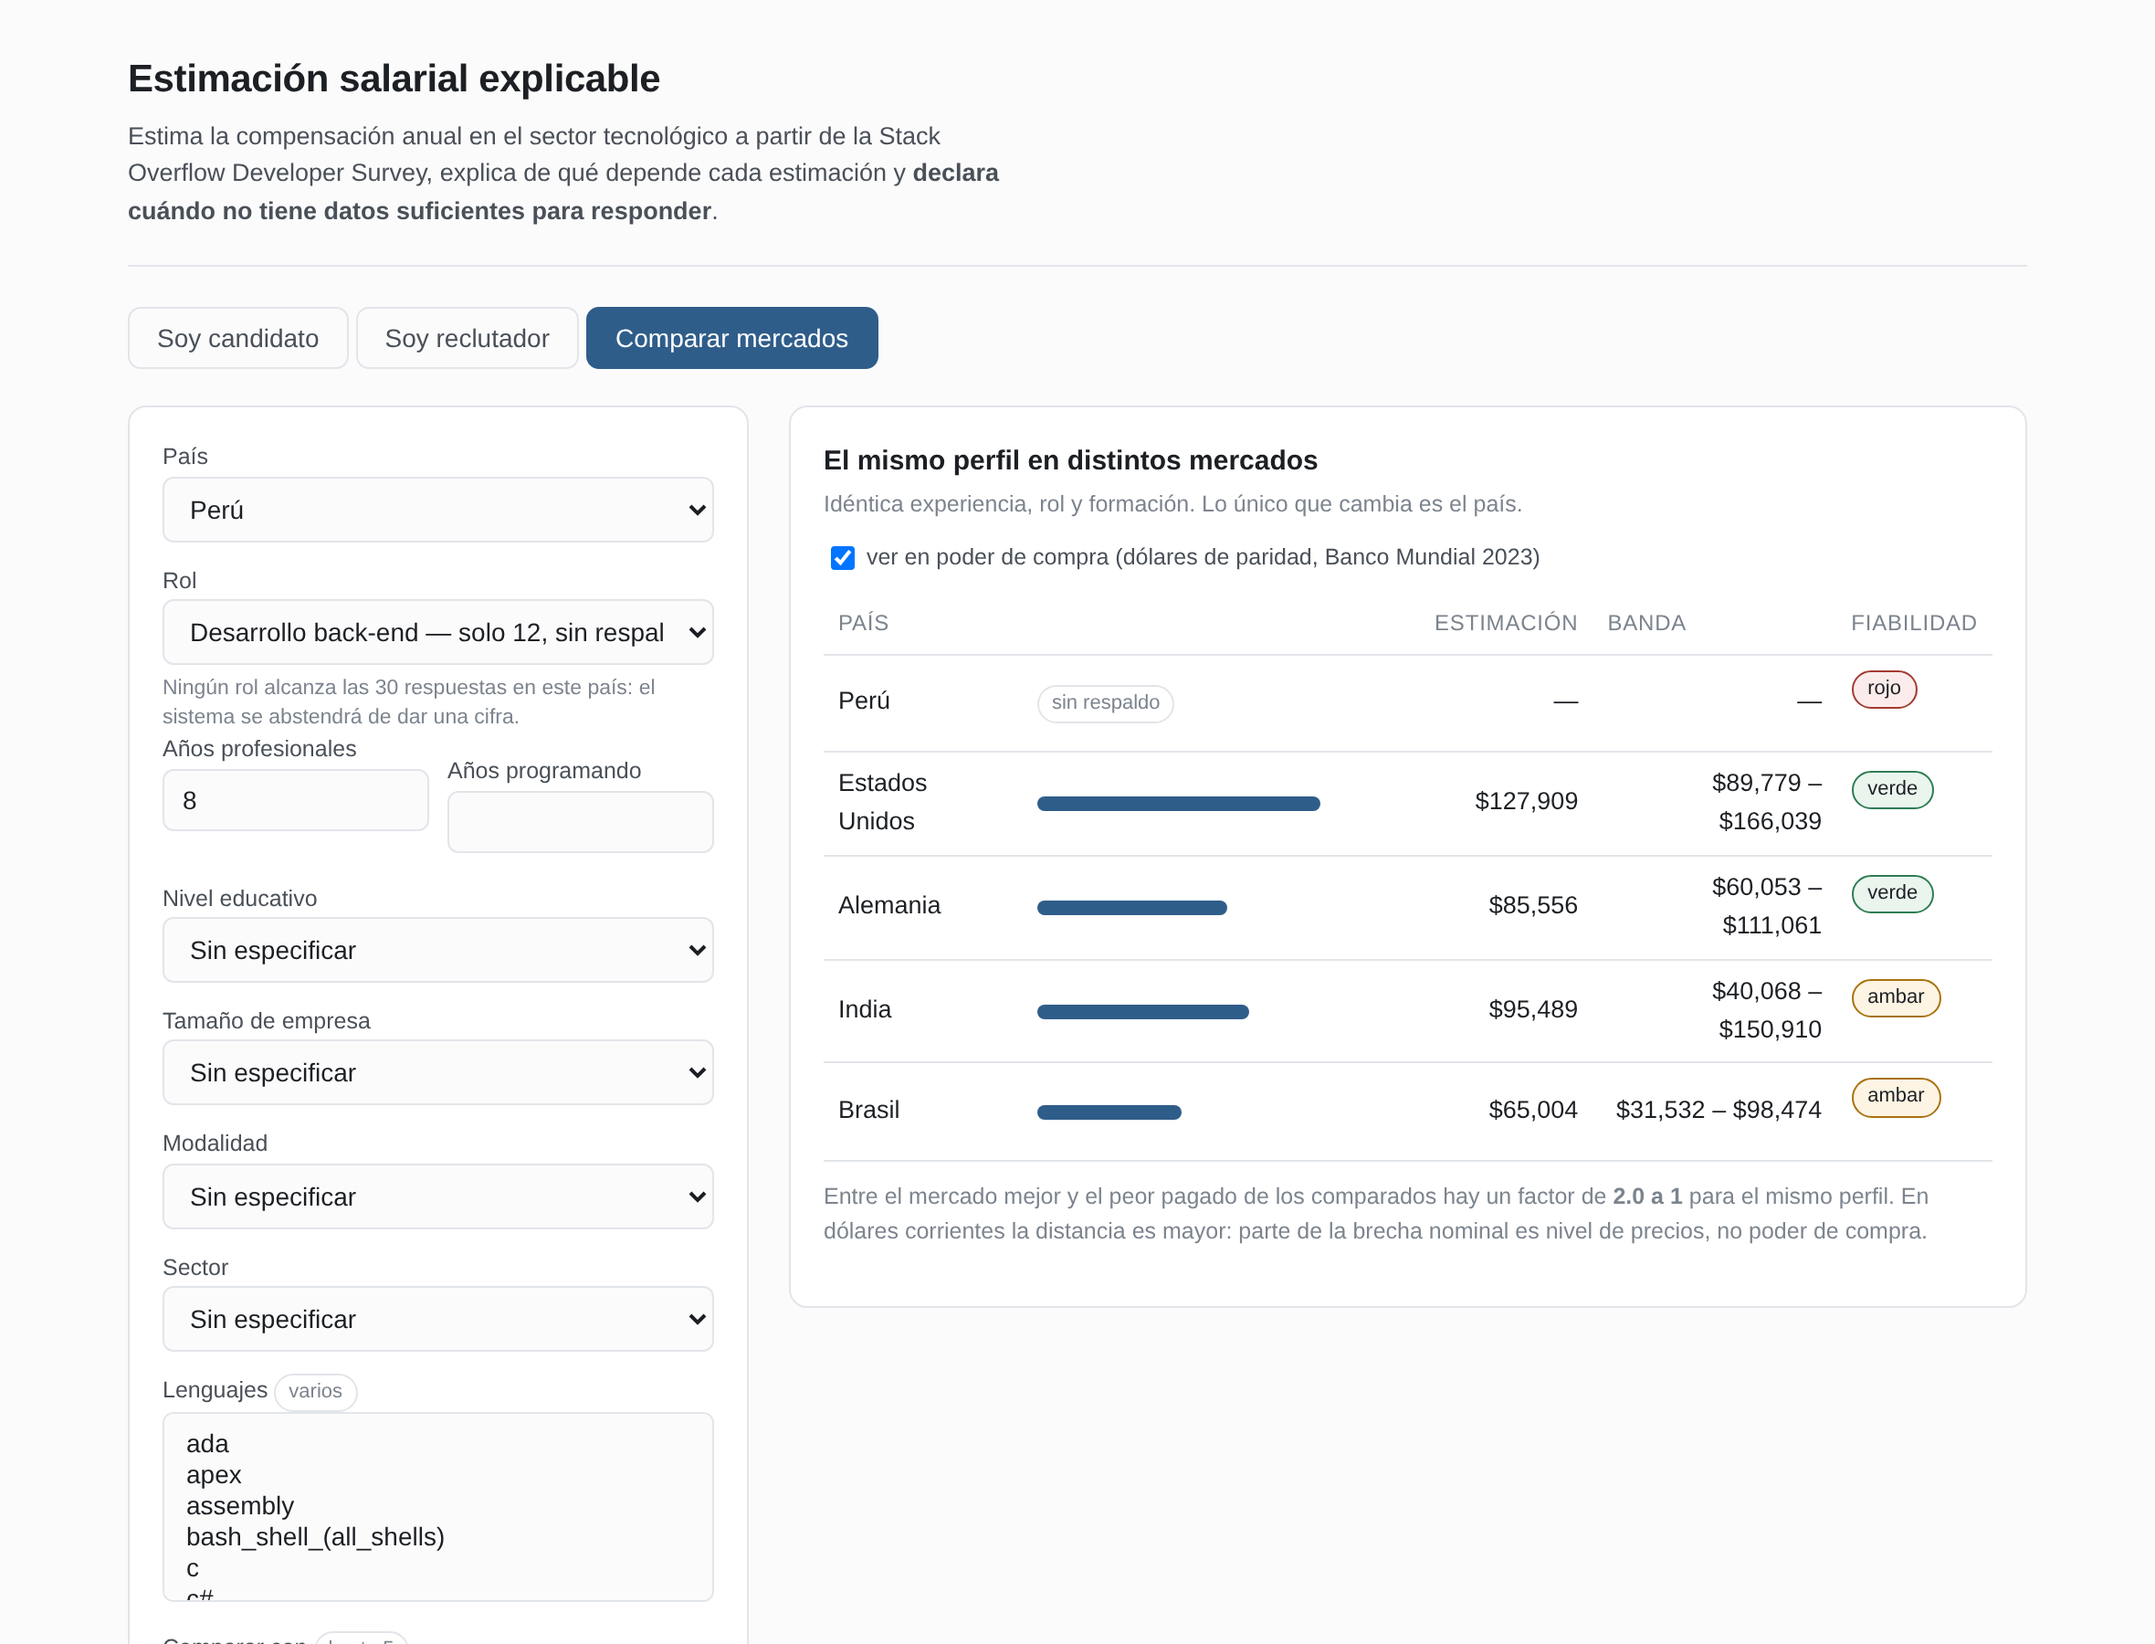
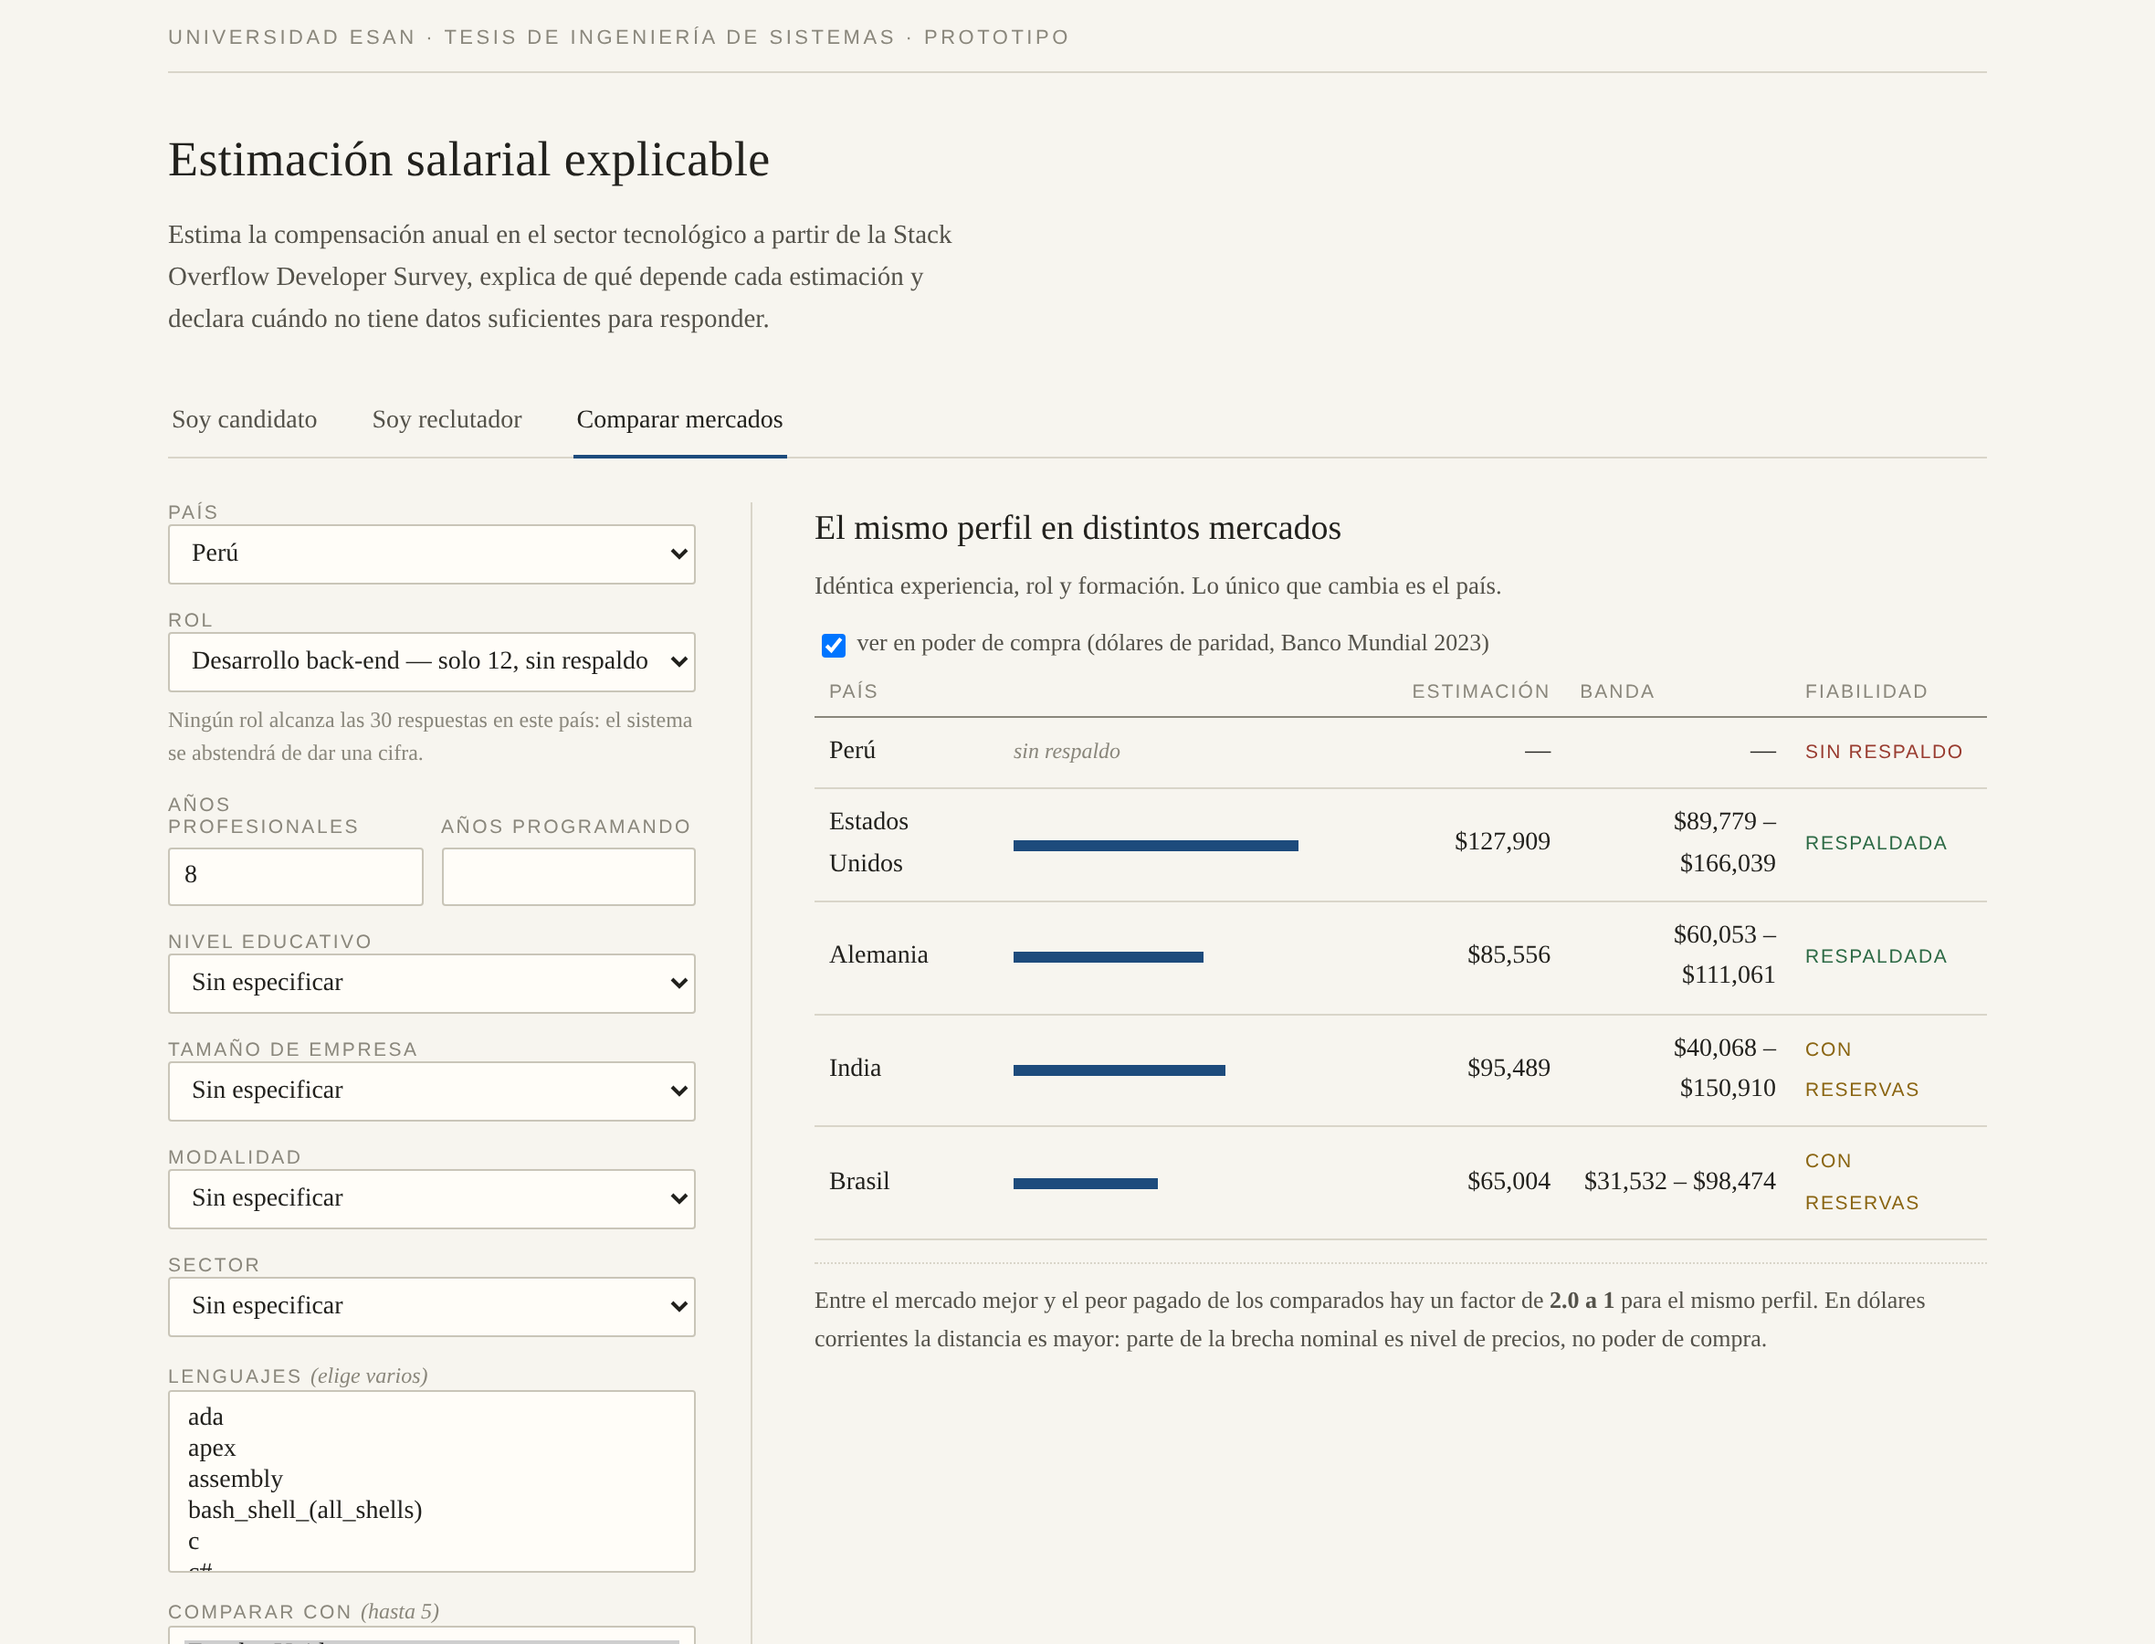
style: el prototipo adopta la voz tipográfica del documento
El estilo anterior (tarjetas redondeadas, pastillas, tipografía de
sistema, tema oscuro automático) era el de una plantilla genérica. La
página se compone ahora como un impreso académico: serifa para títulos y
cifras, línea institucional en la cabecera, pestañas subrayadas,
filetes finos, rótulos en versalitas, un solo tema claro. Los estados
de fiabilidad se escriben con palabras (respaldada, con reservas, sin
respaldo) en lugar del nombre del color, y las notas de país usan el
nombre en español también dentro del texto.

Sin cambios de lógica: las 24 pruebas pasan y la construcción de la
imagen las ejecuta.

diff --git a/servicio/static/index.html b/servicio/static/index.html
@@ -6,81 +6,102 @@
 <title>Estimación salarial explicable</title>
 <link rel="icon" href="data:,">
 <style>
+/* La página comparte la voz tipográfica del documento: serifa para títulos y
+   cifras, composición sobria, filetes finos. Un solo tema, como un impreso. */
 :root{
-  --tinta:#1c1f23; --tinta2:#4a5058; --tinta3:#7c848e;
-  --linea:#e2e5e9; --fondo:#fbfbfc; --panel:#ffffff;
-  --azul:#2f5d8a; --verde:#2e7d52; --ambar:#a8720d; --rojo:#a33a32;
-  --verde-f:#eaf5ee; --ambar-f:#fdf4e3; --rojo-f:#fbeceb;
-}
-@media (prefers-color-scheme: dark){
-  :root{ --tinta:#e8eaed; --tinta2:#b3b9c1; --tinta3:#858c95;
-    --linea:#2c3137; --fondo:#15181b; --panel:#1c2024;
-    --azul:#7aa9d6; --verde:#6cc08d; --ambar:#dfae5a; --rojo:#e08a82;
-    --verde-f:#1b2b22; --ambar-f:#2b2418; --rojo-f:#2c1d1c; }
+  --tinta:#22211d; --tinta2:#54524a; --tinta3:#8a877c;
+  --filete:#d9d5c9; --fondo:#f7f5ef; --papel:#fffdf8;
+  --azul:#1d4b7c; --verde:#2d6a45; --ambar:#8a6512; --rojo:#993c30;
+  --verde-f:#f0f5ef; --ambar-f:#f9f4e6; --rojo-f:#f8eeec;
 }
 *{box-sizing:border-box}
 body{margin:0;background:var(--fondo);color:var(--tinta);
-  font:15px/1.55 -apple-system,BlinkMacSystemFont,"Segoe UI",Roboto,Helvetica,Arial,sans-serif}
-.envoltura{max-width:1080px;margin:0 auto;padding:28px 20px 64px}
-header{border-bottom:1px solid var(--linea);padding-bottom:18px;margin-bottom:22px}
-h1{font-size:21px;margin:0 0 4px;letter-spacing:-.2px}
-header p{margin:0;color:var(--tinta2);font-size:13.5px;max-width:66ch}
-.pestanas{display:flex;gap:4px;margin:22px 0 20px;flex-wrap:wrap}
-.pestanas button{background:none;border:1px solid var(--linea);color:var(--tinta2);
-  padding:8px 15px;border-radius:7px;cursor:pointer;font-size:14px;font-family:inherit}
-.pestanas button[aria-selected=true]{background:var(--azul);border-color:var(--azul);color:#fff}
-.rejilla{display:grid;grid-template-columns:minmax(280px,340px) 1fr;gap:22px;align-items:start}
+  font:15px/1.6 Georgia,"Times New Roman",serif}
+.envoltura{max-width:1040px;margin:0 auto;padding:0 22px 60px}
+.institucion{font:11px/1.4 Verdana,Arial,sans-serif;letter-spacing:.16em;
+  text-transform:uppercase;color:var(--tinta3);border-bottom:1px solid var(--filete);
+  padding:14px 0 10px;margin-bottom:26px}
+header h1{font-size:27px;font-weight:normal;margin:0 0 8px;letter-spacing:.2px}
+header p{margin:0 0 4px;color:var(--tinta2);font-size:14.5px;max-width:62ch}
+.pestanas{display:flex;gap:26px;margin:30px 0 24px;border-bottom:1px solid var(--filete)}
+.pestanas button{background:none;border:0;color:var(--tinta2);cursor:pointer;
+  font:14px Georgia,serif;padding:6px 2px 10px;border-bottom:2px solid transparent;
+  margin-bottom:-1px}
+.pestanas button[aria-selected=true]{color:var(--tinta);border-bottom-color:var(--azul)}
+.rejilla{display:grid;grid-template-columns:minmax(270px,320px) 1fr;gap:34px;align-items:start}
 @media(max-width:820px){.rejilla{grid-template-columns:1fr}}
-.panel{background:var(--panel);border:1px solid var(--linea);border-radius:10px;padding:18px}
-label{display:block;font-size:12.5px;color:var(--tinta2);margin:12px 0 4px;font-weight:500}
+.panel{background:none;border:0;padding:0}
+form.panel{border-right:1px solid var(--filete);padding-right:30px}
+@media(max-width:820px){form.panel{border-right:0;padding-right:0;
+  border-bottom:1px solid var(--filete);padding-bottom:22px}}
+label{display:block;font:10.5px Verdana,Arial,sans-serif;letter-spacing:.12em;
+  text-transform:uppercase;color:var(--tinta3);margin:14px 0 5px}
 label:first-of-type{margin-top:0}
-select,input{width:100%;padding:8px 10px;border:1px solid var(--linea);border-radius:6px;
-  background:var(--fondo);color:var(--tinta);font-size:14px;font-family:inherit}
-select[multiple]{height:104px}
-.dos{display:grid;grid-template-columns:1fr 1fr;gap:10px}
-button.principal{width:100%;margin-top:18px;padding:10px;background:var(--azul);color:#fff;
-  border:0;border-radius:7px;font-size:14.5px;font-weight:600;cursor:pointer;font-family:inherit}
+select,input{width:100%;padding:7px 8px;border:1px solid #c9c5b8;border-radius:2px;
+  background:var(--papel);color:var(--tinta);font:14px Georgia,serif}
+select[multiple]{height:100px}
+select:focus,input:focus{outline:none;border-color:var(--azul)}
+.dos{display:grid;grid-template-columns:1fr 1fr;gap:10px;align-items:end}
+.dos label{display:flex;flex-direction:column;justify-content:flex-end;gap:5px;margin:14px 0 0}
+button.principal{width:100%;margin-top:20px;padding:9px;background:var(--azul);
+  color:#fdfcf8;border:1px solid var(--azul);border-radius:2px;
+  font:14.5px Georgia,serif;cursor:pointer}
+button.principal:hover{background:#163c63}
 button.principal:disabled{opacity:.5;cursor:progress}
-.semaforo{border-radius:9px;padding:14px 16px;margin-bottom:16px;border:1px solid}
+.semaforo{border-left:3px solid;border-radius:0;padding:10px 16px;margin-bottom:20px}
 .semaforo.verde{background:var(--verde-f);border-color:var(--verde)}
 .semaforo.ambar{background:var(--ambar-f);border-color:var(--ambar)}
 .semaforo.rojo{background:var(--rojo-f);border-color:var(--rojo)}
-.semaforo h3{margin:0 0 6px;font-size:14px}
+.semaforo h3{margin:0 0 4px;font:11px Verdana,Arial,sans-serif;letter-spacing:.14em;
+  text-transform:uppercase}
 .semaforo.verde h3{color:var(--verde)} .semaforo.ambar h3{color:var(--ambar)}
 .semaforo.rojo h3{color:var(--rojo)}
-.semaforo ul{margin:8px 0 0;padding-left:18px;font-size:13px;color:var(--tinta2)}
-.semaforo li{margin:4px 0}
-.cifra{font-size:34px;font-weight:650;letter-spacing:-.8px;margin:2px 0}
+.semaforo ul{margin:8px 0 2px;padding-left:17px;font-size:13.5px;color:var(--tinta2)}
+.semaforo li{margin:5px 0}
+.cifra{font-size:36px;margin:4px 0 2px;letter-spacing:.3px;
+  font-variant-numeric:tabular-nums}
 .rango{color:var(--tinta2);font-size:14px}
-.nota{color:var(--tinta3);font-size:12.5px;margin-top:10px}
-table{width:100%;border-collapse:collapse;margin-top:8px;font-size:13.5px}
-th,td{text-align:left;padding:7px 8px;border-bottom:1px solid var(--linea)}
-th{color:var(--tinta3);font-weight:500;font-size:12px;text-transform:uppercase;letter-spacing:.4px}
+.nota{color:var(--tinta2);font-size:13px;margin-top:12px;padding-top:10px;
+  border-top:1px dotted var(--filete)}
+table{width:100%;border-collapse:collapse;margin-top:10px;font-size:14px}
+th{font:10.5px Verdana,Arial,sans-serif;letter-spacing:.1em;text-transform:uppercase;
+  color:var(--tinta3);font-weight:normal;text-align:left;padding:0 8px 7px;
+  border-bottom:1px solid var(--tinta3)}
+td{text-align:left;padding:8px;border-bottom:1px solid var(--filete)}
 td.num{text-align:right;font-variant-numeric:tabular-nums}
-.barra{height:8px;border-radius:4px;background:var(--azul);display:block;min-width:2px}
+.barra{height:6px;background:var(--azul);display:block;min-width:2px}
 .barra.baja{background:var(--rojo)}
-h2{font-size:15px;margin:22px 0 2px}
+.estado{font:10.5px Verdana,Arial,sans-serif;letter-spacing:.08em;text-transform:uppercase}
+.estado.verde{color:var(--verde)} .estado.ambar{color:var(--ambar)} .estado.rojo{color:var(--rojo)}
+h2{font-size:19px;font-weight:normal;margin:24px 0 4px}
 h2:first-child{margin-top:0}
-.sub{color:var(--tinta3);font-size:12.5px;margin:0 0 10px}
-.pildora{display:inline-block;padding:1px 7px;border-radius:20px;font-size:11px;
-  border:1px solid var(--linea);color:var(--tinta3)}
-footer{margin-top:34px;padding-top:16px;border-top:1px solid var(--linea);
-  color:var(--tinta3);font-size:12px}
-.vacio{color:var(--tinta3);font-size:14px;padding:30px 4px}
-.aviso{color:var(--tinta3);font-size:11.5px;margin:5px 0 0;line-height:1.4}
-.ejemplos{margin-top:14px;font-size:12px;color:var(--tinta3)}
+.sub{color:var(--tinta2);font-size:13.5px;margin:0 0 10px}
+.pildora{font:italic 12px Georgia,serif;color:var(--tinta3);
+  letter-spacing:0;text-transform:none;border:0;padding:0}
+footer{margin-top:44px;padding-top:14px;border-top:1px solid var(--filete);
+  color:var(--tinta3);font-size:12.5px;line-height:1.7}
+.vacio{color:var(--tinta3);font-size:14.5px;padding:26px 0;font-style:italic}
+.aviso{color:var(--tinta3);font-size:12px;margin:6px 0 0;line-height:1.5;
+  font-family:Georgia,serif;text-transform:none;letter-spacing:0}
+.ejemplos{margin-top:16px;font-size:13px;color:var(--tinta3)}
 .ejemplos button{background:none;border:0;color:var(--azul);cursor:pointer;
   font:inherit;text-decoration:underline;padding:0 2px}
+a{color:var(--azul)}
+dialog{max-width:560px;border:1px solid var(--tinta3);border-radius:0;
+  background:var(--papel);color:var(--tinta);padding:26px;
+  font:14px/1.6 Georgia,serif}
+dialog::backdrop{background:rgba(40,38,30,.45)}
 </style>
 </head>
 <body>
 <div class="envoltura">
 
+<div class="institucion">Universidad ESAN · Tesis de Ingeniería de Sistemas · Prototipo</div>
 <header>
   <h1>Estimación salarial explicable</h1>
   <p>Estima la compensación anual en el sector tecnológico a partir de la Stack Overflow
-     Developer Survey, explica de qué depende cada estimación y <strong>declara cuándo no
-     tiene datos suficientes para responder</strong>.</p>
+     Developer Survey, explica de qué depende cada estimación y declara cuándo no
+     tiene datos suficientes para responder.</p>
 </header>
 
 <div class="pestanas" role="tablist">
@@ -102,9 +123,9 @@ footer{margin-top:34px;padding-top:16px;border-top:1px solid var(--linea);
     <label>Tamaño de empresa<select id="tamano_empresa"></select></label>
     <label>Modalidad<select id="modalidad"></select></label>
     <label>Sector<select id="sector"></select></label>
-    <label id="fila-lenguajes">Lenguajes <span class="pildora">varios</span>
+    <label id="fila-lenguajes">Lenguajes <span class="pildora">(elige varios)</span>
       <select id="lenguajes" multiple></select></label>
-    <label id="fila-comparar" hidden>Comparar con <span class="pildora">hasta 5</span>
+    <label id="fila-comparar" hidden>Comparar con <span class="pildora">(hasta 5)</span>
       <select id="comparar_paises" multiple></select></label>
     <button class="principal" type="submit" id="enviar">Estimar</button>
     <p class="ejemplos">Ejemplos:
@@ -120,8 +141,7 @@ footer{margin-top:34px;padding-top:16px;border-top:1px solid var(--linea);
 
 <footer id="pie"></footer>
 
-<dialog id="acerca" style="max-width:560px;border:1px solid var(--linea);border-radius:10px;
-  background:var(--panel);color:var(--tinta);padding:22px">
+<dialog id="acerca">
   <h2 style="margin-top:0">Acerca de este sistema</h2>
   <p class="sub" style="font-size:13px">Prototipo de la tesis <em>Estimación de compensaciones
   en el sector tecnológico mediante aprendizaje automático explicable</em>, Universidad ESAN,
@@ -254,7 +274,7 @@ function vistaCandidato(r) {
       antes de impuestos.</div>
     <p class="nota">La amplitud no es genérica: es el error del ${(b.amplitud_relativa*100).toFixed(0)} %
       que la auditoría midió en los países del mismo nivel de renta que el tuyo.
-      La mediana declarada en ${$("#pais").value} es ${dinero(r.mediana_pais)}.</p>`
+      La mediana declarada en ${NOMBRE_ES[$("#pais").value] || $("#pais").value} es ${dinero(r.mediana_pais)}.</p>`
     + factores(r.factores);
 }
 
@@ -303,9 +323,9 @@ function vistaComparar(datos) {
       <td class="num">${b && !sinFactor ? dinero(ajusta(b.centro, r)) : "—"}</td>
       <td class="num">${b && !sinFactor
         ? dinero(ajusta(b.inferior, r)) + " – " + dinero(ajusta(b.superior, r)) : "—"}</td>
-      <td><span class="semaforo ${r.fiabilidad.nivel}"
-           style="padding:1px 8px;border-radius:20px;font-size:11px;display:inline-block">
-           ${r.fiabilidad.nivel}</span></td></tr>`;
+      <td><span class="estado ${r.fiabilidad.nivel}">${
+             {verde: "respaldada", ambar: "con reservas", rojo: "sin respaldo"}[r.fiabilidad.nivel]
+           }</span></td></tr>`;
   }).join("");
   const validos = conCifra.filter(r => !ESCALA_PPA || r.nivel_precios)
                           .map(r => ajusta(r.banda.centro, r));
@@ -316,7 +336,7 @@ function vistaComparar(datos) {
           ? ". En dólares corrientes la distancia es mayor: parte de la brecha nominal es nivel de precios, no poder de compra"
           : ". Ninguna otra variable del modelo produce diferencias de esa magnitud"}.</p>` : "";
   const conmutador = `<p class="sub" style="margin-top:10px">
-    <label style="display:inline;font-size:12.5px;cursor:pointer">
+    <label style="display:inline;font:13px Georgia,serif;text-transform:none;letter-spacing:0;color:var(--tinta2);cursor:pointer">
       <input type="checkbox" id="escala-ppa" ${ESCALA_PPA ? "checked" : ""}
              style="width:auto;vertical-align:middle"> ver en poder de compra
       (dólares de paridad, Banco Mundial 2023)</label></p>`;
